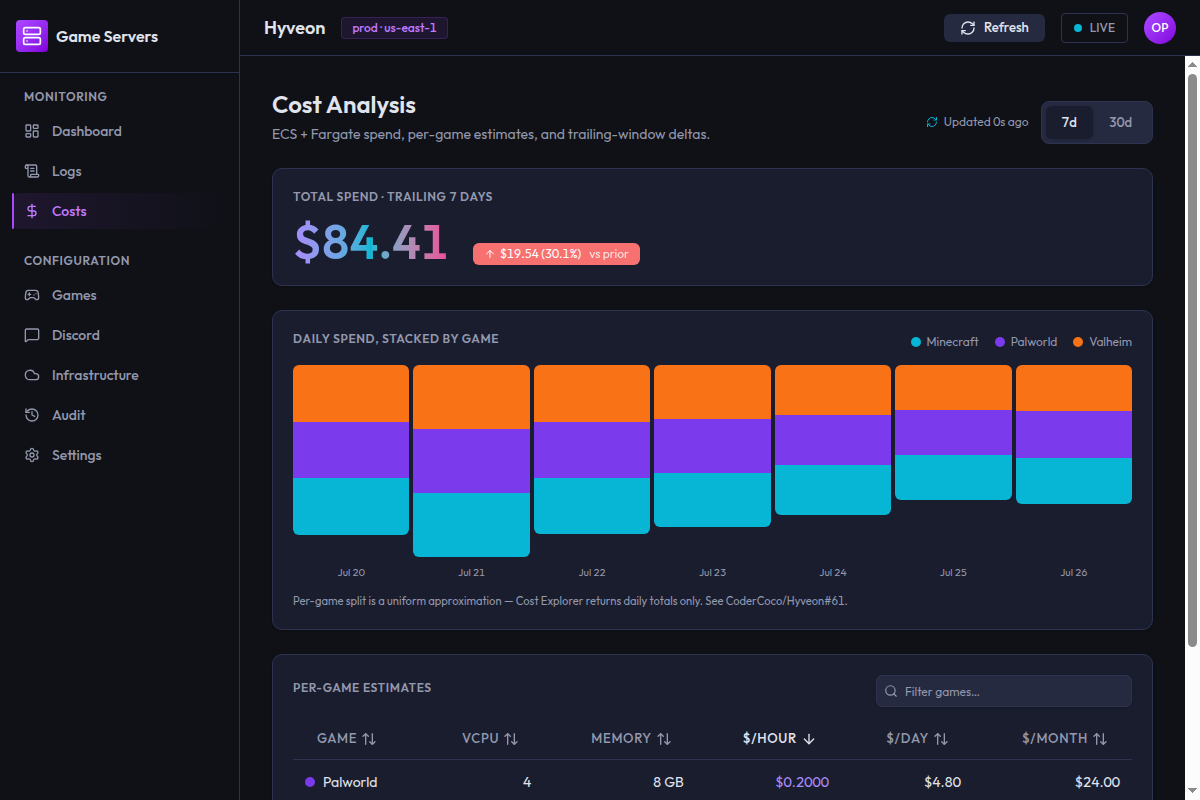
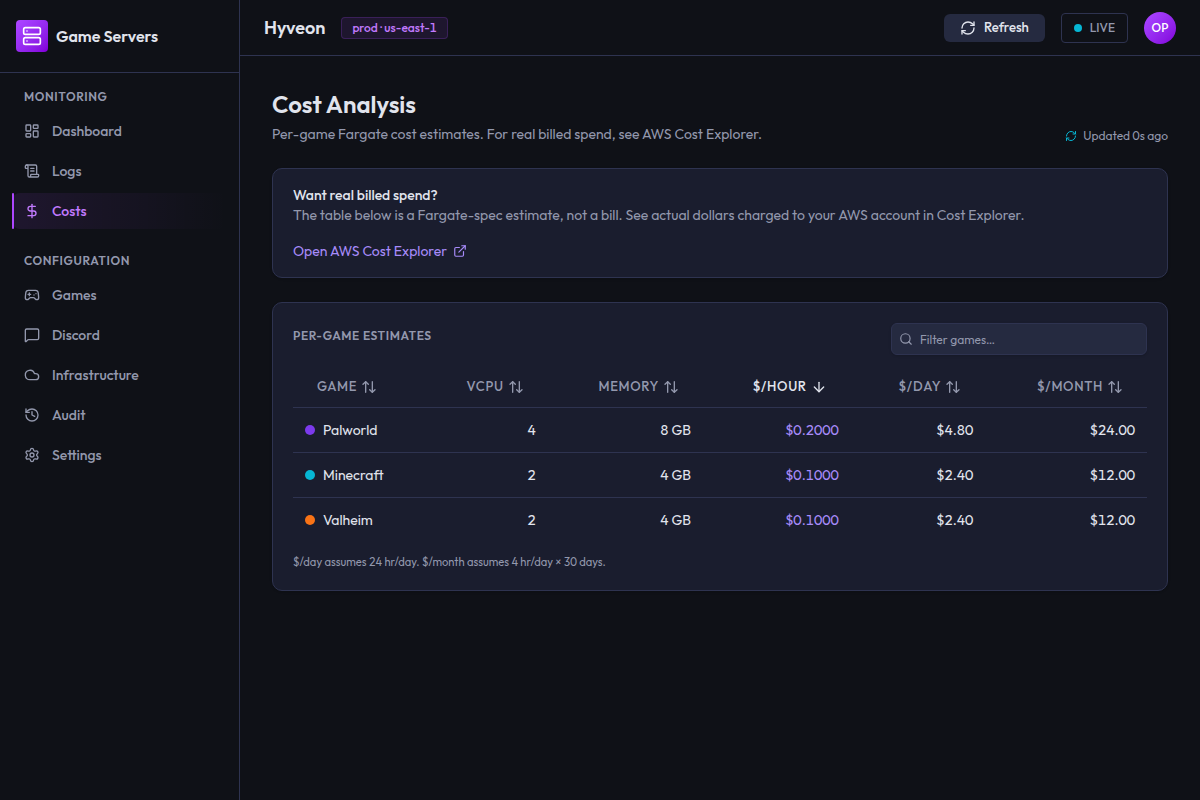
docs: fix remaining stale Cost Explorer references found by the doc audit
- docs/docs/app/index.md: 'Watch the costs' section and the navigation
  map's /costs row still described the removed trailing-spend chart.
- Regenerated costs.png and dashboard.png (npm run docs:screenshots) —
  both still showed the pre-PR1 UI (stacked chart, Spend today/Forecast
  MTD tiles).
- specs/cost-visibility/spec.md: one scenario referenced toggling the
  7d/30d range selector, a control removed in PR 1.

diff --git a/docs/docs/app/index.md b/docs/docs/app/index.md
@@ -83,10 +83,10 @@ and pause when you want to read something without it scrolling away. See
 
 ### 7. Watch the costs
 
-**Costs** shows trailing ECS + Fargate spend for the last 7 or 30 days, a
-delta against the previous window of the same length, and a per-game table of
-what each server costs per hour, per day and per month at the assumed usage.
-See [Costs](/app/costs).
+**Costs** shows a per-game table of what each server costs per hour, per day
+and per month, estimated from its declared Fargate CPU and memory — the app
+makes no AWS Cost Explorer API calls, ever. For real billed spend, a callout
+links out to the AWS Cost Explorer console. See [Costs](/app/costs).
 
 ### 8. Stop it
 
@@ -108,7 +108,7 @@ happening; **Configuration** is where you change it.
 |---|---|---|---|
 | Dashboard | `/` | Start and stop servers, see status at a glance, open a server's save files | [Dashboard](/app/dashboard) |
 | Logs | `/logs` | Live CloudWatch tail for one game at a time | [Logs](/app/logs) |
-| Costs | `/costs` | Trailing spend, daily chart, per-game rate table | [Costs](/app/costs) |
+| Costs | `/costs` | Per-game Fargate cost estimates, AWS Cost Explorer link-out | [Costs](/app/costs) |
 | Games | `/games` | Declare, edit and remove game servers in the JSON configuration object | [Games](/app/games) |
 | Discord | `/discord` | Bot credentials, guild allowlist, admins, per-game permissions | [Discord](/app/discord) |
 | Infrastructure | `/iac` | Plan, approve, apply, destroy; run history and rollback | [Infrastructure](/app/iac) |
